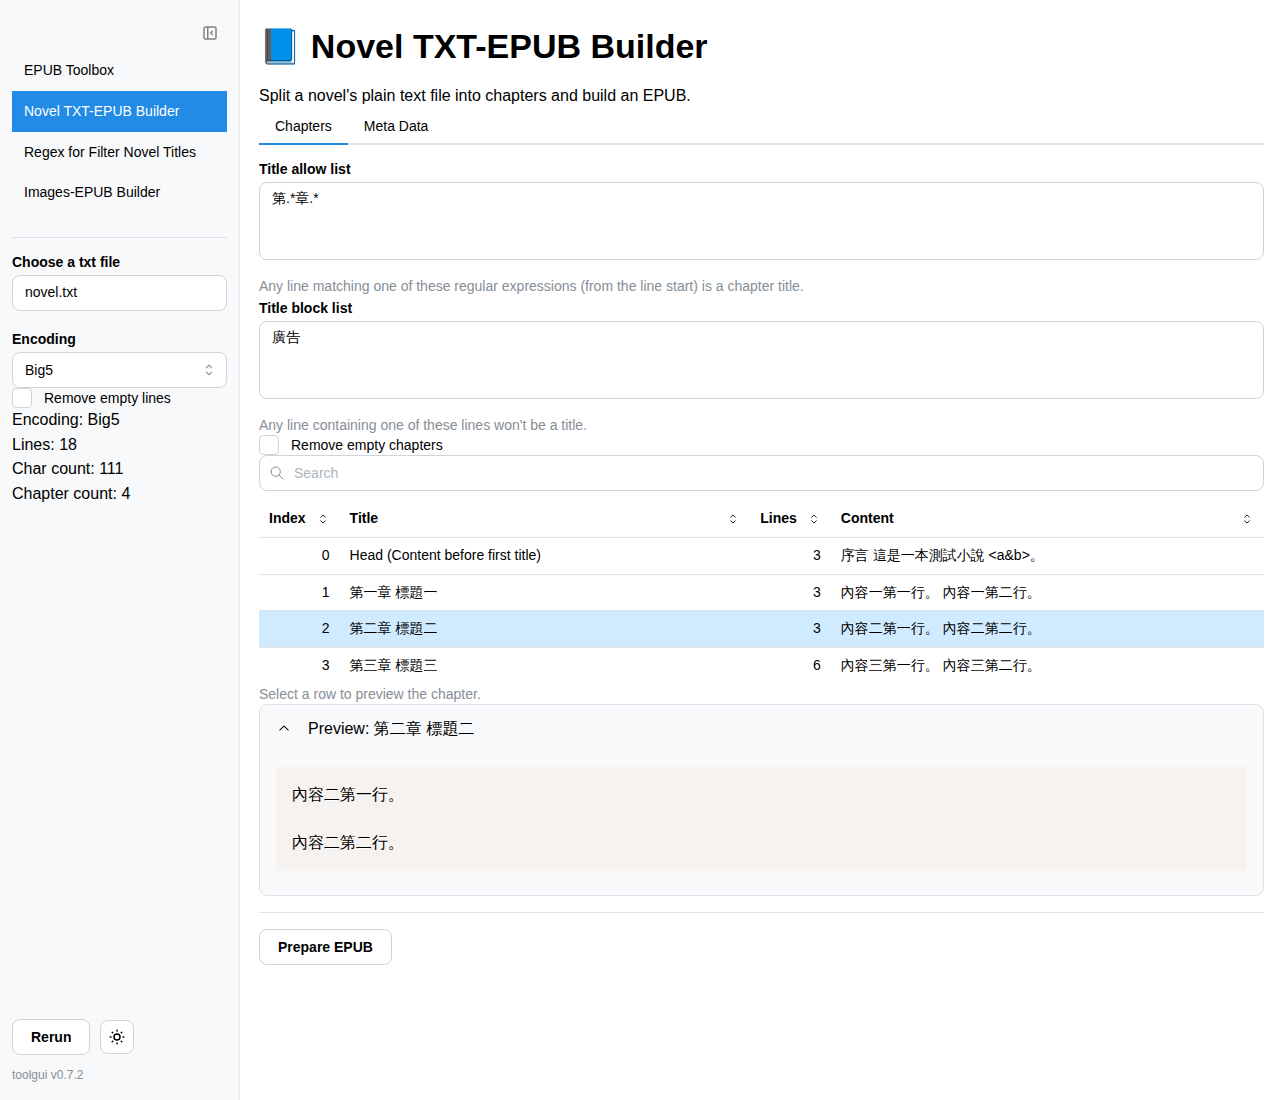
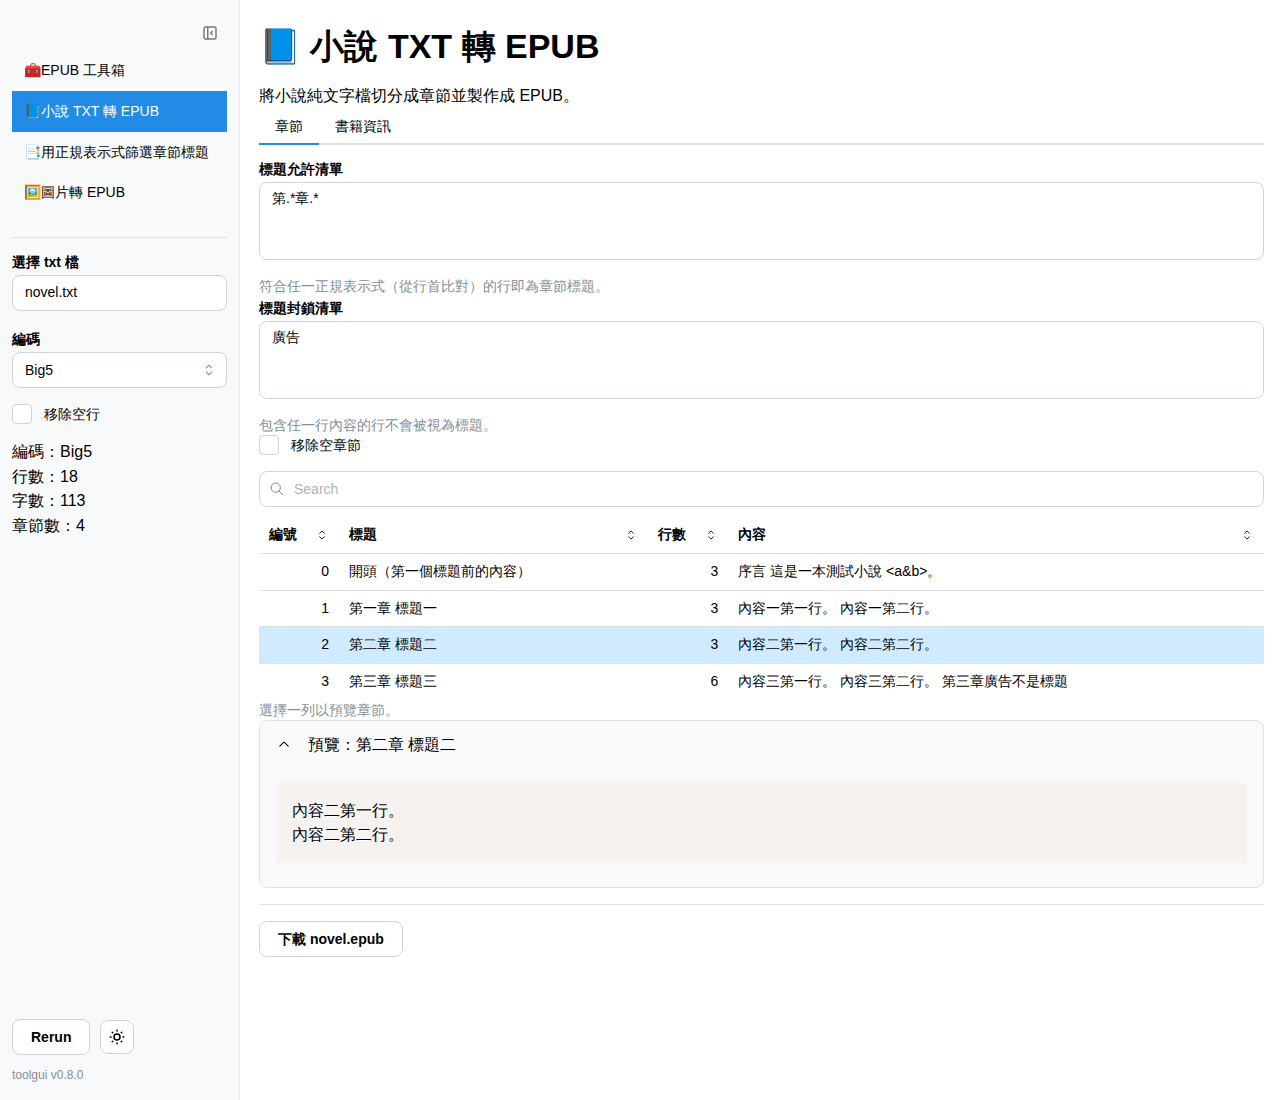
Use ASCII IDs for file uploads; update README screenshot
The server sends a file upload's ID in an HTTP header, so IDs derived
from Chinese labels made uploads fail.

Claude-Session: https://claude.ai/code/session_01BcBmWbkRHHu5BhAhA6VT7Y

diff --git a/cmd/epub_toolbox/common.go b/cmd/epub_toolbox/common.go
@@ -42,6 +42,12 @@ func hashBytes(b []byte) string {
 	return hex.EncodeToString(s[:])[:16]
 }
 
+// asciiID sets a file upload's ID; the server sends it in an HTTP header,
+// so an ID derived from a Chinese label breaks uploads.
+func asciiID(id string) *tgcomp.FileUploadConf {
+	return &tgcomp.FileUploadConf{Base: tgframe.Base{ID: id}}
+}
+
 // bookMeta is what metaForm collects.
 type bookMeta struct {
 	Title, Author, Intro, Language string
@@ -79,7 +85,7 @@ func metaForm(c *tgframe.Container, resetKey, defTitle, defIntro string) bookMet
 			Default: "zh-TW", Placeholder: "BCP 47 標籤，例如 zh-TW、en",
 		}),
 	}
-	m.coverFile = tgcomp.FileUpload(c, "封面", ".png,.jpg,.jpeg,.gif,.webp")
+	m.coverFile = tgcomp.FileUpload(c, "封面", ".png,.jpg,.jpeg,.gif,.webp", asciiID("cover"))
 	if m.coverFile == nil {
 		m.coverURL = strings.TrimSpace(tgcomp.Textbox(c, "封面網址"))
 	}

diff --git a/cmd/epub_toolbox/images.go b/cmd/epub_toolbox/images.go
@@ -21,7 +21,7 @@ func ImagesPage(p *tgframe.Params) error {
 	tgcomp.Text(p.Main, "將圖片打包成 EPUB，每頁一張圖。")
 
 	files := tgcomp.MultiFileUpload(p.Sidebar, "選擇圖片或 zip 檔",
-		".zip,application/zip,.png,.jpg,.jpeg,.gif,.webp")
+		".zip,application/zip,.png,.jpg,.jpeg,.gif,.webp", asciiID("images"))
 	tgcomp.Caption(p.Sidebar, "PNG、JPEG、GIF 或 WebP，或其 zip 壓縮檔；"+
 		"頁面依檔名排序（2 在 10 之前）。")
 	if files == nil {

diff --git a/cmd/epub_toolbox/novel.go b/cmd/epub_toolbox/novel.go
@@ -23,7 +23,7 @@ func NovelPage(p *tgframe.Params) error {
 	tgcomp.Title(p.Main, "📘 小說 TXT 轉 EPUB")
 	tgcomp.Text(p.Main, "將小說純文字檔切分成章節並製作成 EPUB。")
 
-	file := tgcomp.FileUpload(p.Sidebar, "選擇 txt 檔", ".txt,text/plain")
+	file := tgcomp.FileUpload(p.Sidebar, "選擇 txt 檔", ".txt,text/plain", asciiID("novel_txt"))
 	if file == nil {
 		tgcomp.MessageInfo(p.Main, "👈 請選擇要處理的文字檔。")
 		return nil
